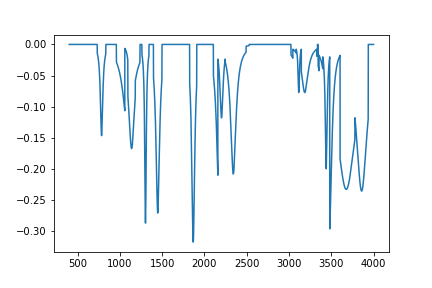
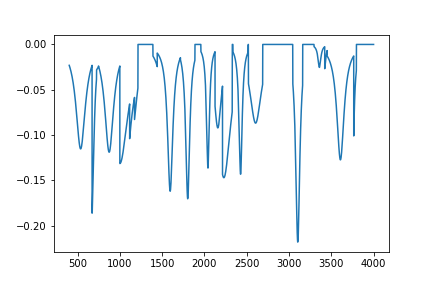
Okay need to figure out nmf

diff --git a/ir_nmf.py b/ir_nmf.py
@@ -6,19 +6,15 @@ from scipy.stats import cauchy
 import random
 
 
-Irs=[]
-PointNum=20000
-for n in range (PointNum):
-    Irs+=[0]
-
-def addIRS(peakNum,L):
+def addIRS(peakNum,PointNum):
+    Ir = np.zeros(PointNum)
     for n in range(peakNum):
-        xloc=  random.randrange(len(L))
-        #thickness= 10**(random.randrange(10,50)/10 )
+        xloc=  random.randrange(PointNum)
+        
         thickness = random.randrange(10,1000)
         thickness2 = random.randrange(1,5)
         peakHeight=random.random()
-#add width
+#This is supposed to deal with peaks toward the ends of the spectra
         if (xloc + thickness+1) > PointNum:
             end = PointNum
         else: 
@@ -27,15 +23,35 @@ def addIRS(peakNum,L):
             start= 0
         else:
             start = xloc - thickness
-        L[start:end]= -1*cauchy.pdf(np.linspace(-1*thickness2,thickness2,end-start))*peakHeight
-    return L
-addIRS(20,Irs)
+        Ir[start:end]= -1*cauchy.pdf(np.linspace(-1*thickness2,thickness2,end-start))*peakHeight
+    return Ir
 
+#IR2Stack= addIRS(30,20000).append[(addIRS(30,20000))]
+IR2Stack = np.column_stack((addIRS(30,20000),addIRS(30,20000)))
+
+IR2Stack = np.column_stack((IR2Stack, IR2Stack[:,1] + IR2Stack[:,0]))
+
+
+plt.plot(np.linspace(4000,400,20000),IR2Stack[:,1] )
+plt.plot(np.linspace(4000,400,20000),IR2Stack[:,0] )
+
+plt.plot(np.linspace(4000,400,20000),IR2Stack[:,2] )
+#plt.savefig("test.png")
+
+
+
+
+#old code that may not work
+#thickness= 10**(random.randrange(10,50)/10 )
 #L.extend(-1*cauchy.pdf(np.linspace(-5,5,200)))
-plt.plot(np.linspace(4000,400,PointNum),Irs)
-plt.savefig("test.png")
-
 #plt.axis([-10,20,-.34,0])
 #plt.show()
+'''
+Irs=[]
 
+for n in range (PointNum):
+    Irs+=[0]
+    '''
+    #plt.plot(np.linspace(4000,400,20000),IR2Stack[:,0] )
 
+#plt.plot(np.linspace(4000,400,20000),IR2Stack[:,1] )
